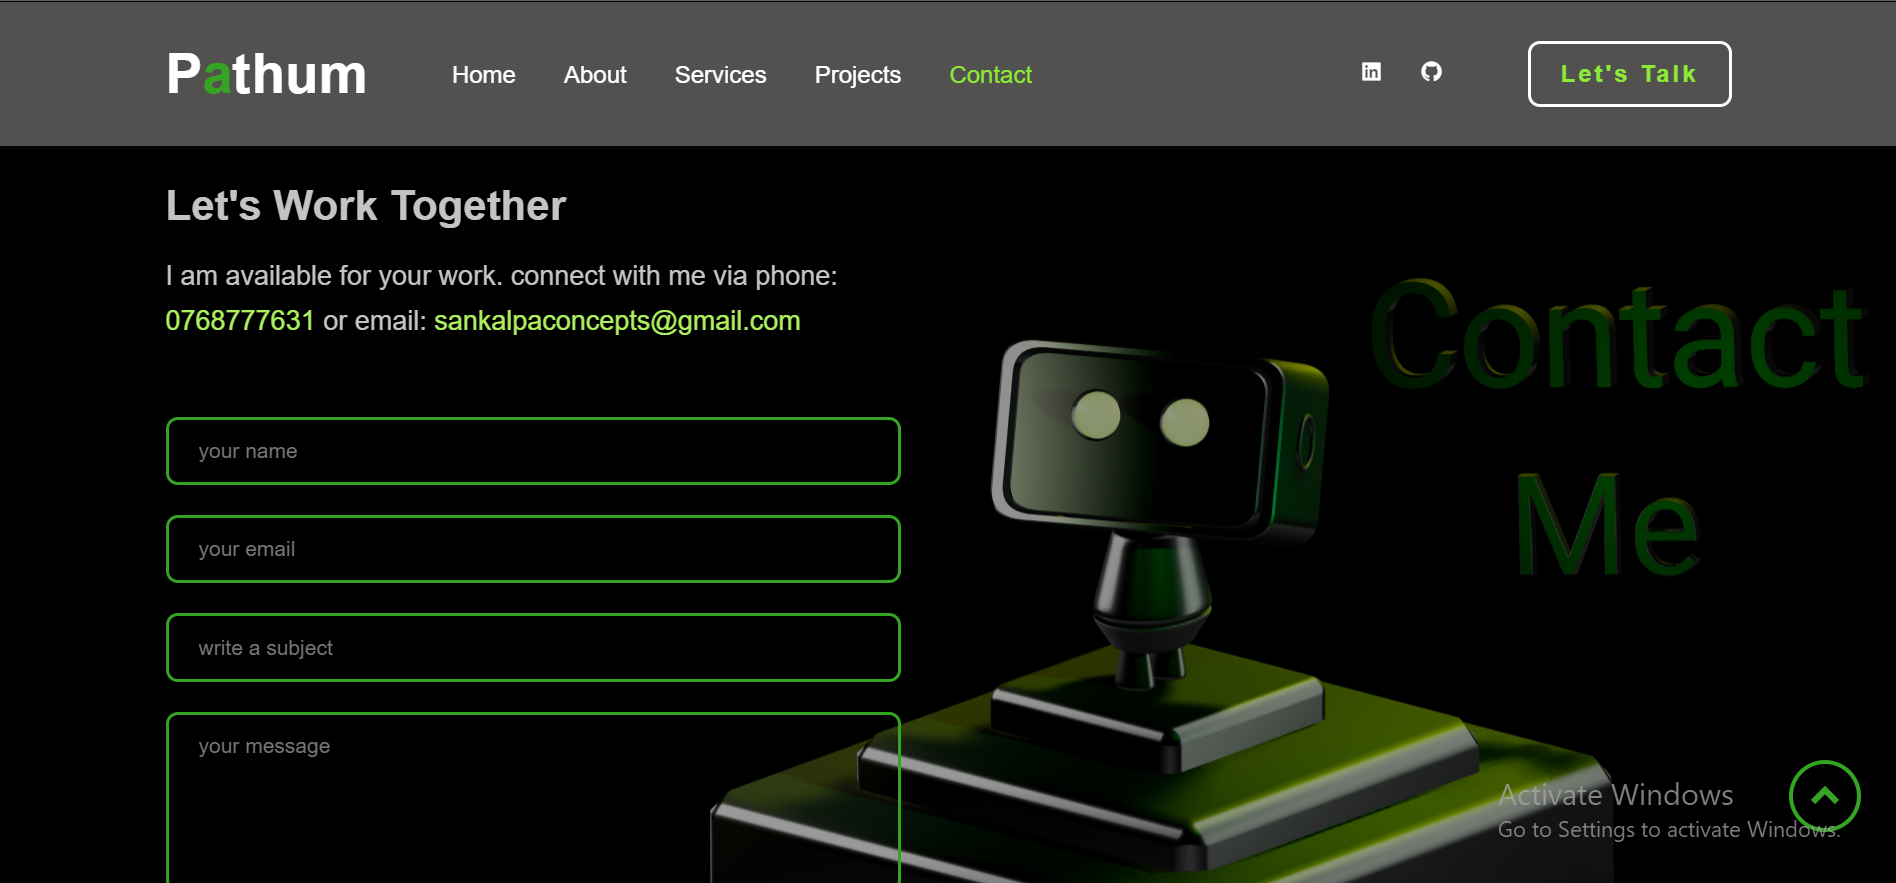
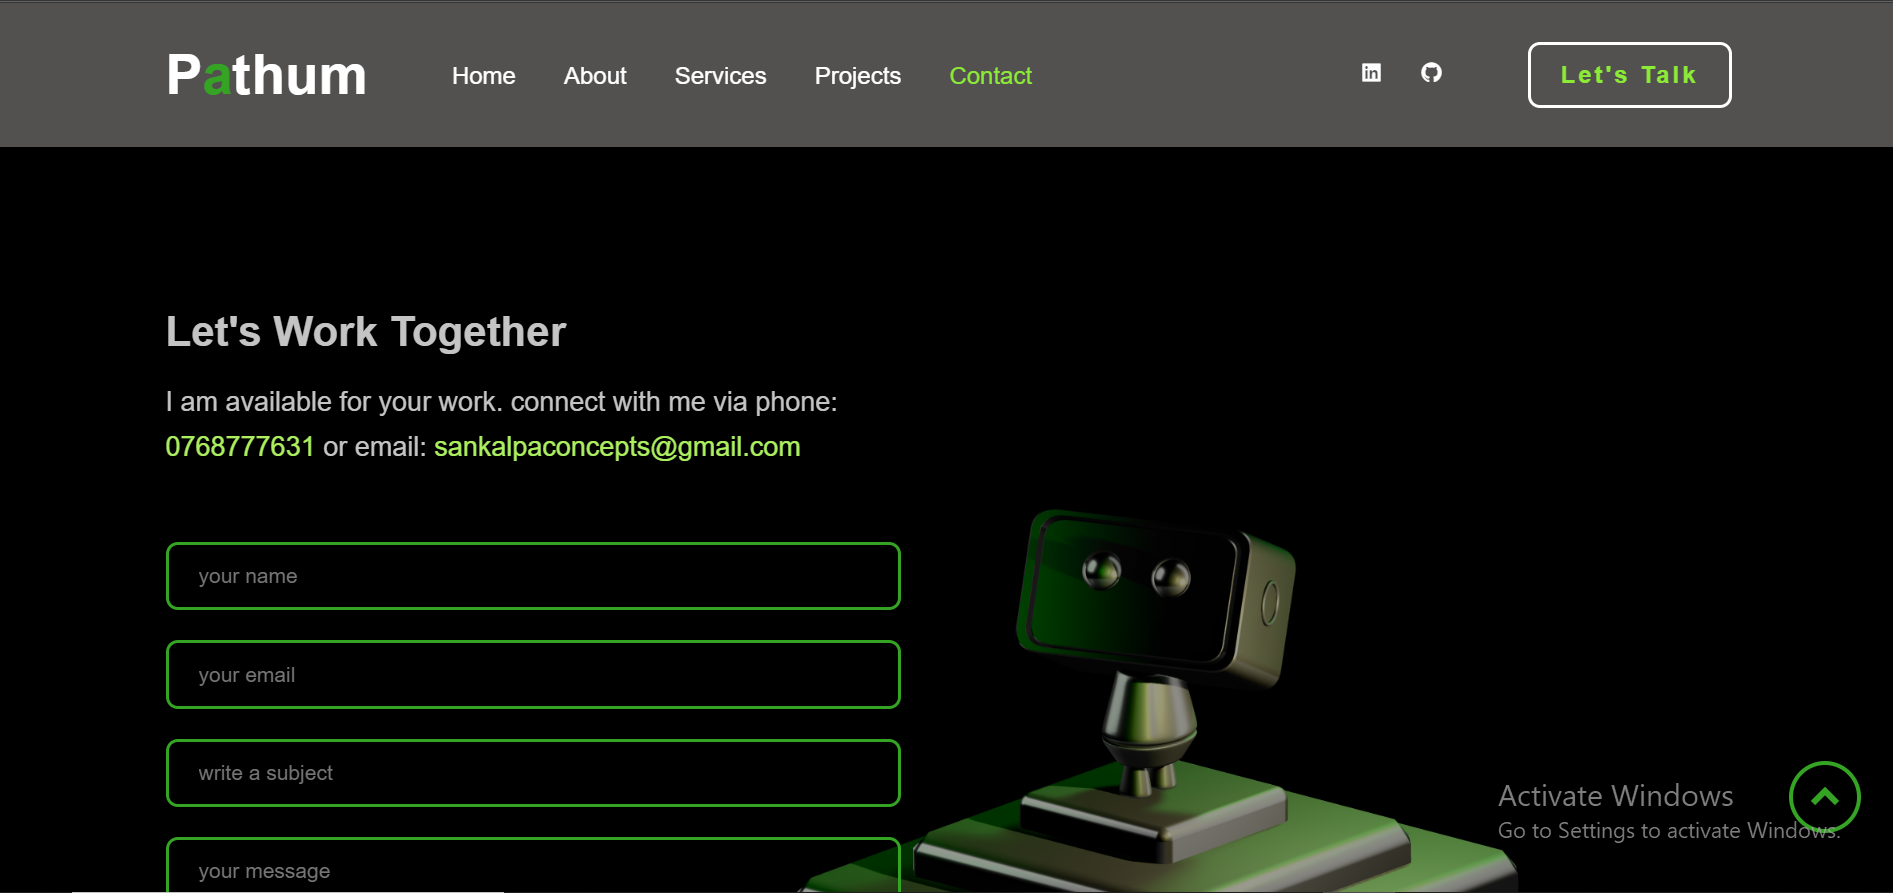
changes

diff --git a/index.html b/index.html
@@ -342,7 +342,7 @@
                     <img src="img/portfolio.PNG" alt="image3" class="portfolio__img">
         
                     <div class="portfolio__data">
-                        <p class="portfolio__subtitle">Project 4</p>
+                        <p class="portfolio__subtitle">Project 5</p>
                         <h3 class="portfolio__title">Web Development</h3>
                         <p class="portfolio__description">A responsive portfolio web site using html, css and JavaScript</p>
 
@@ -403,7 +403,7 @@
                 </div>
 
                 <div class="robo__spline">
-                    <spline-viewer  class="robo__change" url="https://prod.spline.design/PLpEzRMQqhLsYd6O/scene.splinecode"></spline-viewer>
+                    <spline-viewer class="robo__change" url="https://prod.spline.design/GkOkvrbeKIfEoIRS/scene.splinecode"></spline-viewer>
                 </div>
                 
             </div>  
@@ -437,8 +437,14 @@
     
 
 
-    <script type="module" src="https://unpkg.com/@splinetool/viewer@1.9.79/build/spline-viewer.js"></script>
+    <script type="module" src="https://unpkg.com/@splinetool/viewer@1.9.80/build/spline-viewer.js"></script>
+
 
 </body>
 
 </html>
+
+
+
+
+

diff --git a/css/styles.css b/css/styles.css
@@ -602,6 +602,10 @@ textarea, input{
     opacity: 0.7;
 }
 
+.portfolio__description{
+    color: rgb(255, 255, 255);
+    font-size: 1rem;
+}
 
 
 .portfolio__subtitle{
